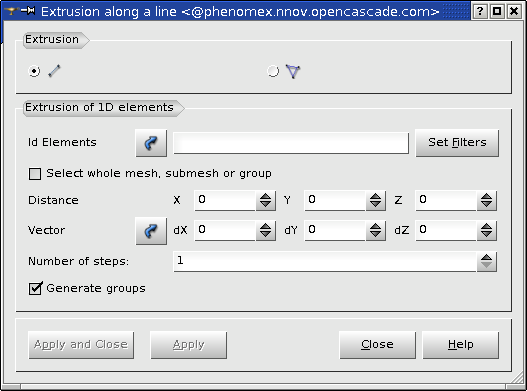
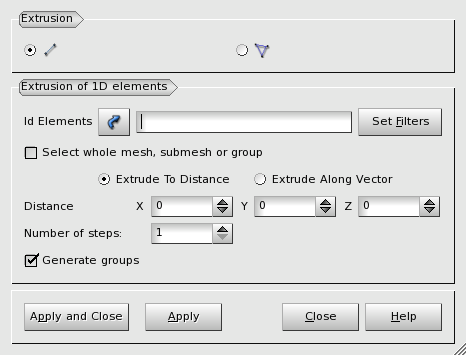
0019928: EDF 771 SMESH : Extrusion (Revolution) with normal to a face

Changed region(s): [[0.0, 0.0, 1.0, 1.0], [0.6009, 0.8366, 0.6309, 0.8676]]

diff --git a/src/SMESHGUI/SMESH_msg_en.ts b/src/SMESHGUI/SMESH_msg_en.ts
@@ -1128,6 +1128,14 @@ Are you sure want to export to MED 2.1 ?</translation>
             <source>SMESH_EXTRUSION</source>
             <translation>Extrusion</translation>
         </message>
+	<message>
+            <source>SMESH_EXTRUSION_TO_DISTANCE</source>
+            <translation>Extrusion To Distance</translation>
+        </message>
+	<message>
+            <source>SMESH_EXTRUSION_ALONG_VECTOR</source>
+            <translation>Extrusion Along Vector</translation>
+        </message>
         <message>
             <source>SMESH_FACE</source>
             <translation>Face</translation>

diff --git a/src/SMESHGUI/SMESHGUI_ExtrusionDlg.h b/src/SMESHGUI/SMESHGUI_ExtrusionDlg.h
@@ -98,8 +98,11 @@ private:
   QButtonGroup*                    GroupConstructors;
   QRadioButton*                    RadioButton1;
   QRadioButton*                    RadioButton2;
+  QRadioButton*                    RadioButton3;
+  QRadioButton*                    RadioButton4;
 
   QGroupBox*                       GroupArguments;
+  QGroupBox*                       GroupDimensions;
   QLabel*                          TextLabelElements;
   QPushButton*                     SelectElementsButton;
   QLineEdit*                       LineEditElements;
@@ -119,6 +122,8 @@ private:
   SMESHGUI_SpinBox*                SpinBox_Vy;
   QLabel*                          TextLabelVz;
   SMESHGUI_SpinBox*                SpinBox_Vz;
+  QLabel*                          TextLabelDist;
+  SMESHGUI_SpinBox*                SpinBox_VDist;
   QLabel*                          TextLabelNbSteps;
   SalomeApp_IntSpinBox*            SpinBox_NbSteps;
   QCheckBox*                       MakeGroupsCheck;
@@ -141,6 +146,7 @@ private slots:
   bool                            ClickOnApply();
   void                            ClickOnCancel();
   void                            ClickOnHelp();
+  void                            ClickOnRadio();
   void                            SetEditCurrentArgument();
   void                            SelectionIntoArgument();
   void                            DeactivateActiveDialog();
